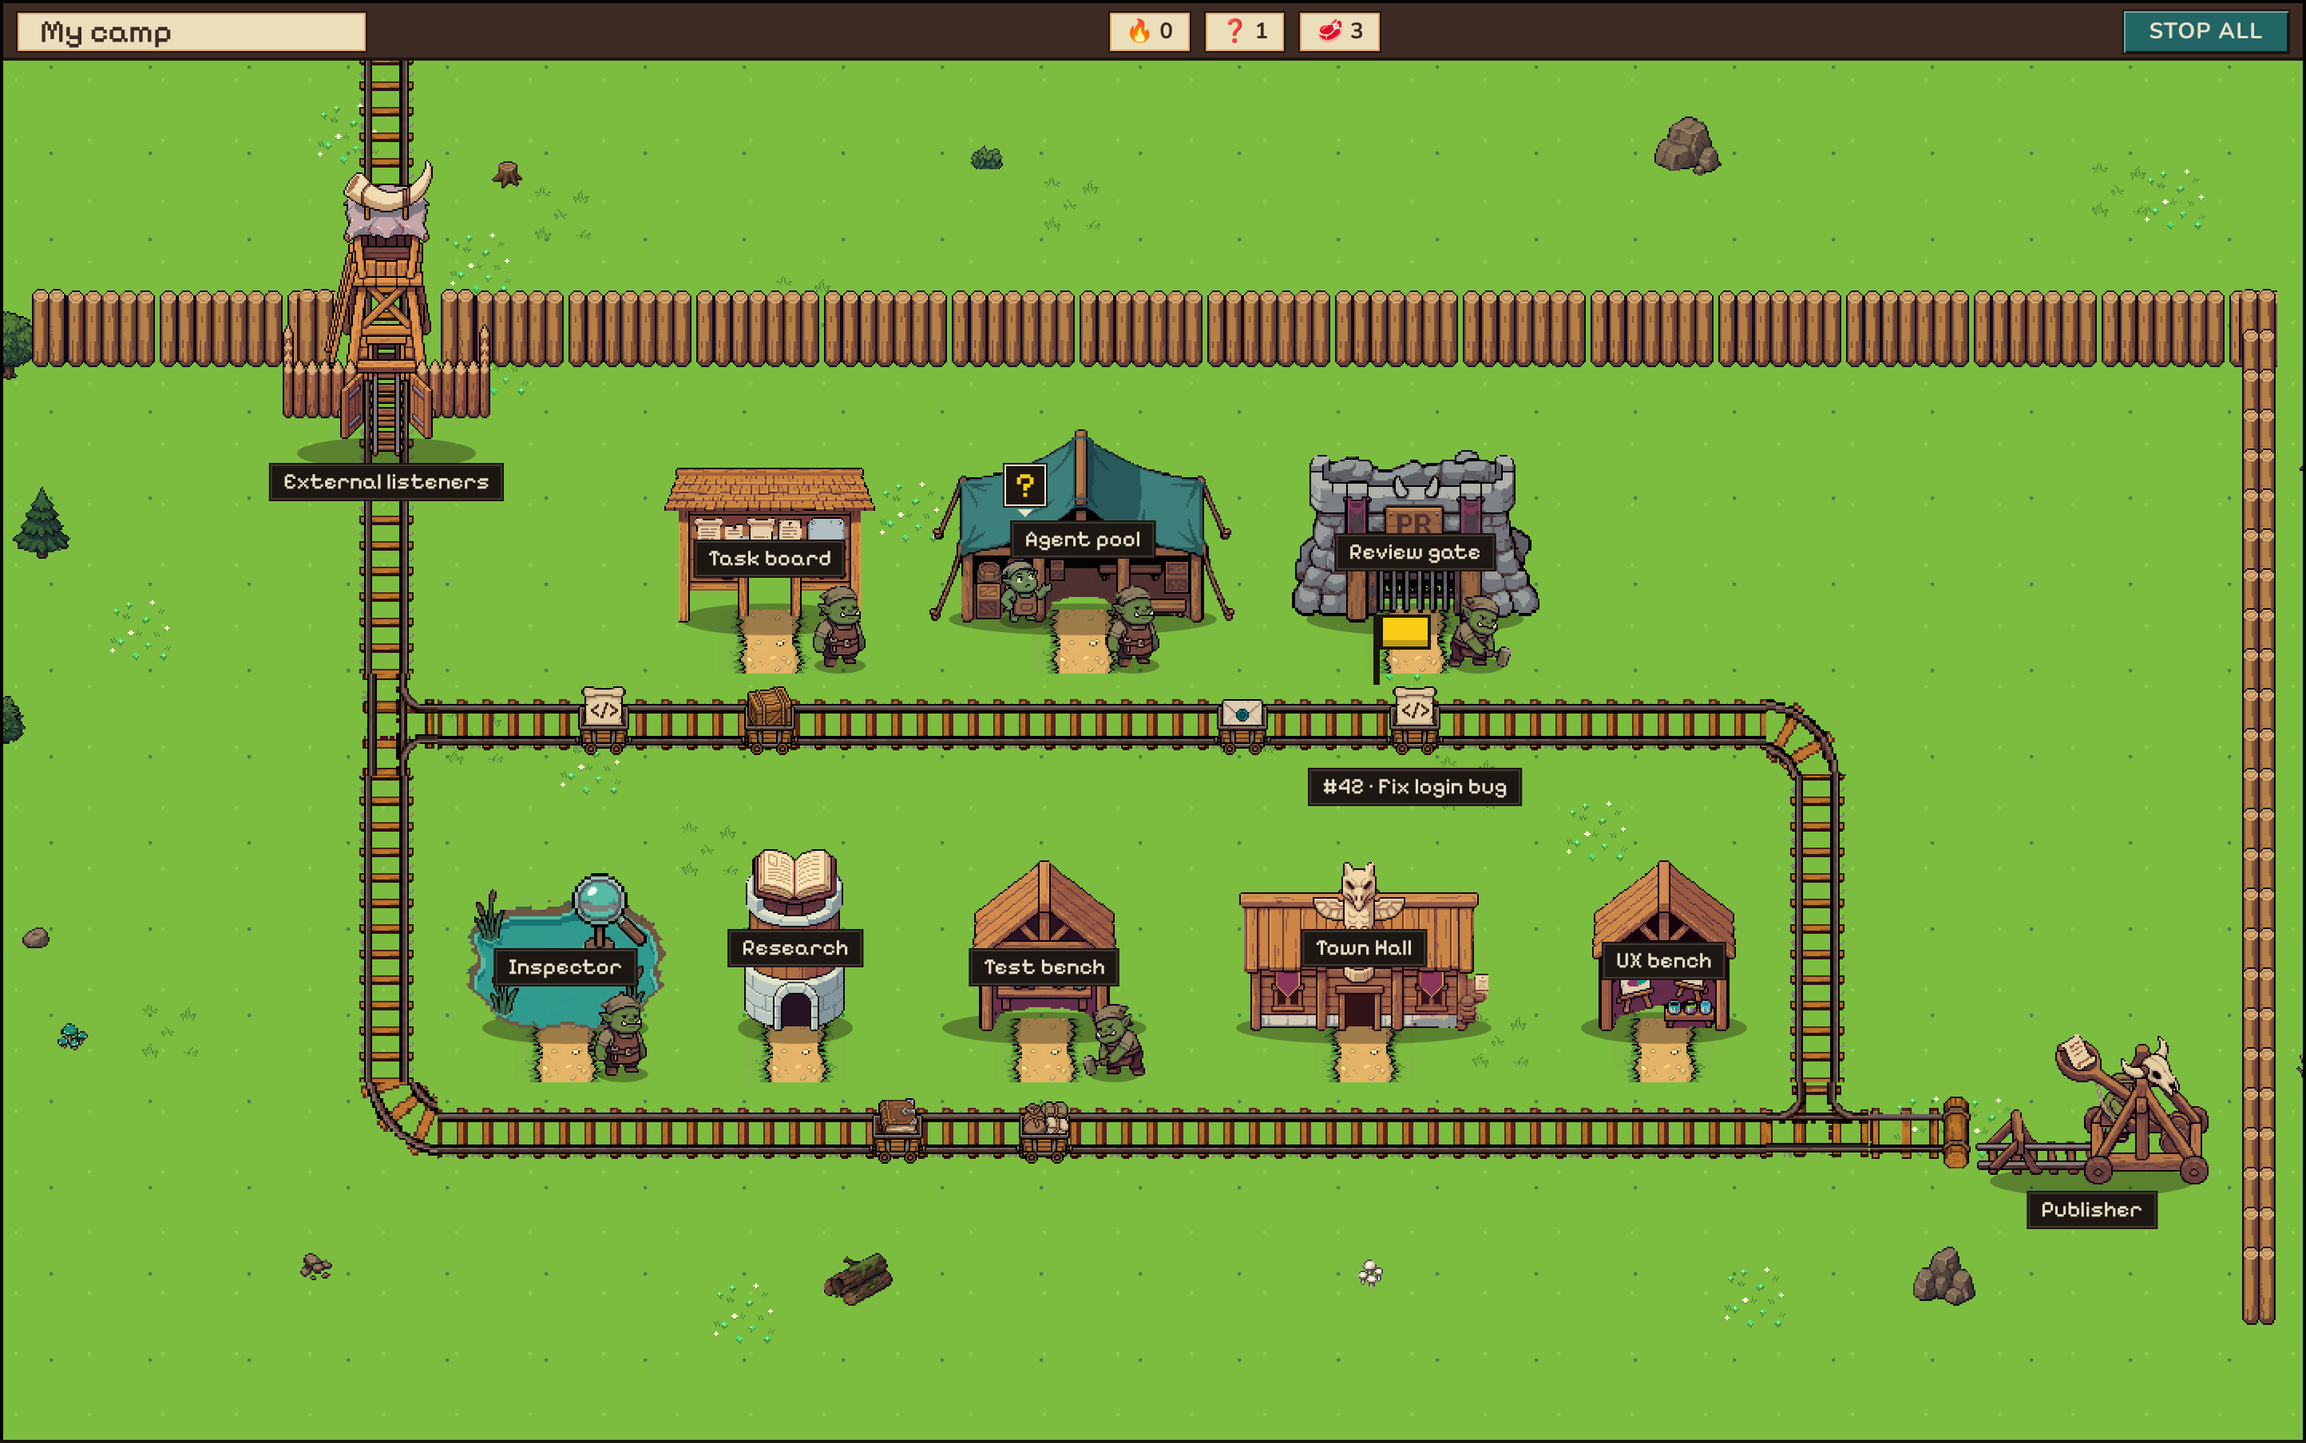
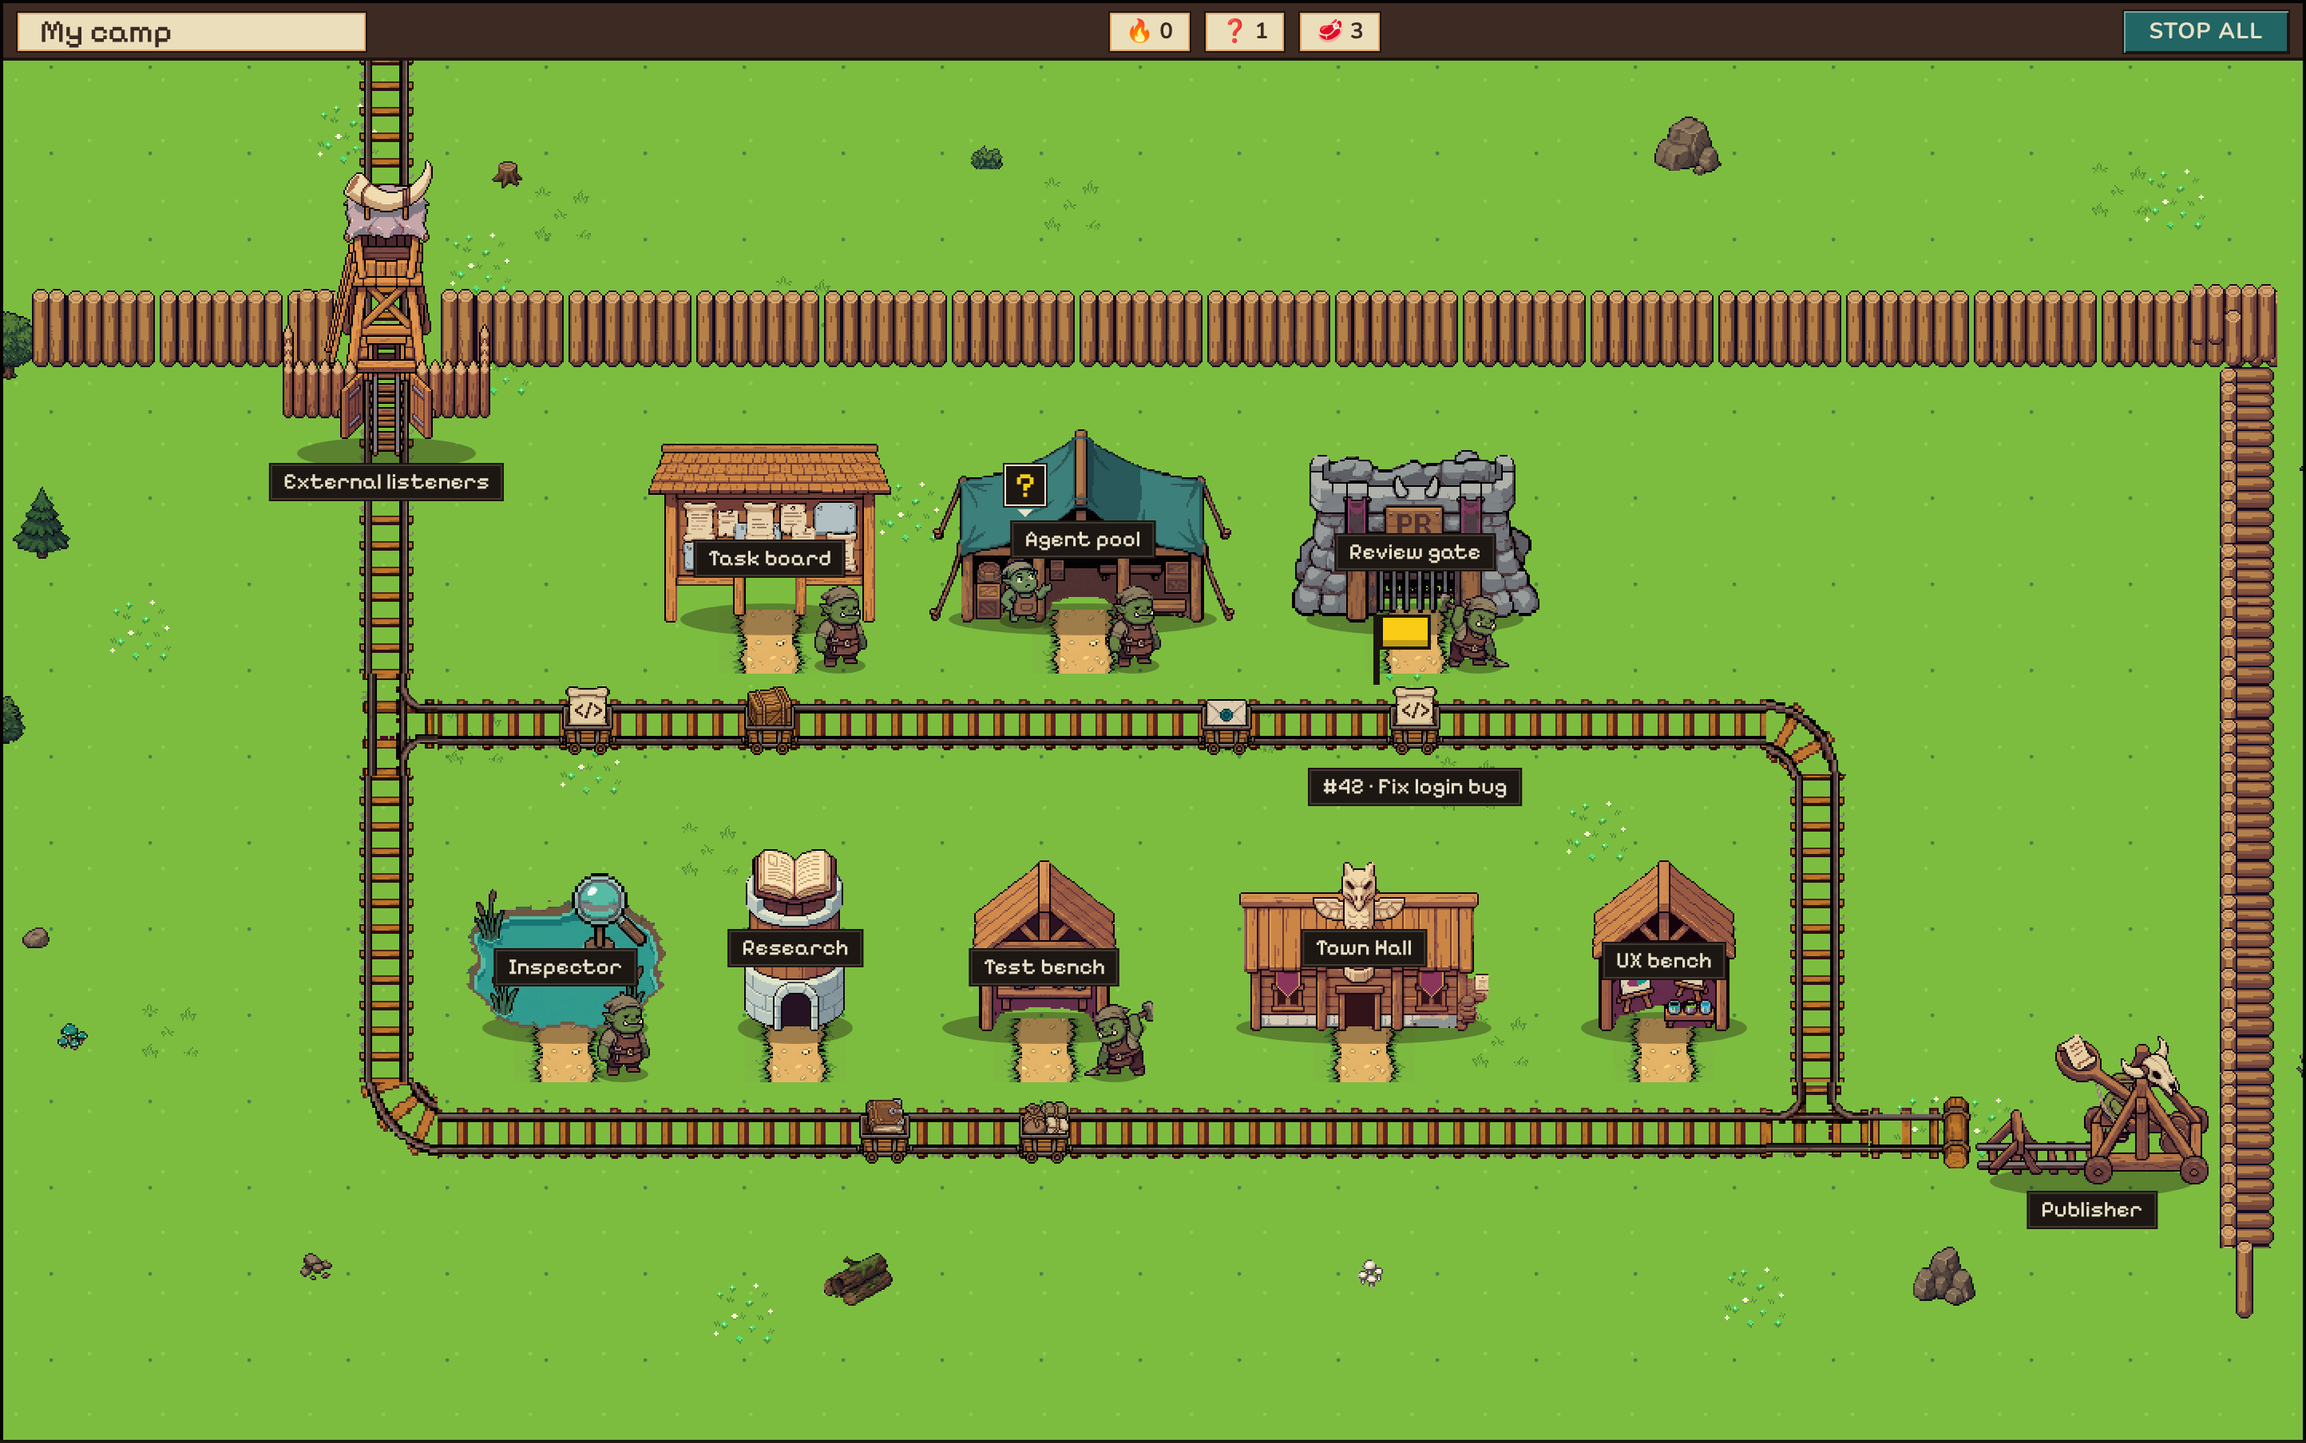
Design v3: the right palisade wall from g3-sides; c2-more's t-e and corner-nw looked at, not placed
- tools/campkit_v3.html: the back wall ends in palisade-corner-ne, palisade-v runs down the right edge (stacked so its
  copies meet), palisade-post at its foot; the end-post column stays the stand-in until g3-sides is cut
- c2-more's t-e breaks the line at the split (straight off the column, branch short of the edge): the turned north T stays
- design-system-v3.md round 8, the sides; v3-town-overview.png re-shot

Claude-Session: https://claude.ai/code/session_01YE3zJS5M9rAcnc7m1feymS

diff --git a/design-system/previews/CampKitV3.html b/design-system/previews/CampKitV3.html
@@ -492,8 +492,9 @@ async function track() {
   };
   // a line of track per row, joined in a loop (v3-prompts §11): the way in comes down from outside the wall at the
   // tower's foot and splits on the left into line 1 (the upper row) and line 2 (the lower row); they merge on the right
-  // and line 2 runs on to the catapult's buffer stop. c2 has no junction with exits north, east and south yet: its
-  // north T turned a quarter clockwise stands in for it (a flat track from above reads the same turned).
+  // and line 2 runs on to the catapult's buffer stop. c2-more's junction with exits north, east and south (t-e,
+  // round 8) does not fit the line yet — its straight sits off the column and its branch stops short of the tile's
+  // edge — so c2's north T turned a quarter clockwise still stands in (a flat track from above reads the same turned).
   for (let y = LINE_Y - Math.ceil((LINE_Y + OY) / T) * T; y < LINE_Y; y += T) await tile("straight-v", COL_L, y, true);
   await tile("t-n", COL_L, LINE_Y, false, 90);                     // the split: in from the north, out east and south
   for (let y = LINE_Y + T; y < LINE2_Y; y += T) await tile("straight-v", COL_L, y, true);
@@ -572,11 +573,13 @@ async function decor() {
 // a run of g3's rounded logs from x0 to x1 (units), its foot on the wall's line; an end post at each end
 let EDGE = null;
 async function loadEdge() {
-  const names = ["palisade-h", "palisade-end-w", "palisade-end-e"];
+  const names = ["palisade-h", "palisade-end-w", "palisade-end-e"], side = ["palisade-v", "palisade-corner-ne", "palisade-post"];
   const got = await Promise.all(names.map((n) => probe(`${V3}edge/${n}.png`)));
   EDGE = got.every(Boolean) ? Object.fromEntries(names.map((n, i) => [n, got[i]])) : null;
+  const more = await Promise.all(side.map((n) => probe(`${V3}edge/${n}.png`)));     // g3-sides: the right wall and its corner
+  if (EDGE && more.every(Boolean)) side.forEach((n, i) => { EDGE[n] = more[i]; here.add(`edge/${n}.png`); });
 }
-function palisade(x0, x1, y) {
+function palisade(x0, x1, y, corner = false) {
   if (!EDGE) return el("v3-at v3-palisade", x0, y, x1 - x0, 32);
   const s = sc("edge/palisade-h.png"), h = EDGE["palisade-h"].naturalHeight * s, foot = (y + 32) * K;
   const run = document.createElement("div");
@@ -584,18 +587,40 @@ function palisade(x0, x1, y) {
   run.style.cssText = `left:${x0 * K}px;top:${foot - h}px;width:${(x1 - x0) * K}px;height:${h}px;`
     + `background:url(${EDGE["palisade-h"].src}) 0 0 / ${EDGE["palisade-h"].naturalWidth * s}px ${h}px repeat-x`;
   world.appendChild(run);
-  for (const [n, x] of [["palisade-end-w", x0 * K], ["palisade-end-e", x1 * K - EDGE["palisade-end-e"].naturalWidth * s]]) {
+  const east = corner && EDGE["palisade-corner-ne"] ? "palisade-corner-ne" : "palisade-end-e";
+  for (const [n, x] of [["palisade-end-w", x0 * K], [east, x1 * K - EDGE[east].naturalWidth * sc(`edge/${east}.png`)]]) {
     const im = document.createElement("img"), e = EDGE[n];
     im.className = "v3-img"; im.src = e.src;
-    im.style.cssText = `left:${x}px;top:${foot - e.naturalHeight * s}px;width:${e.naturalWidth * s}px;height:${e.naturalHeight * s}px`;
+    const es = sc(`edge/${n}.png`);
+    im.style.cssText = `left:${x}px;top:${foot - e.naturalHeight * es}px;width:${e.naturalWidth * es}px;height:${e.naturalHeight * es}px`;
     world.appendChild(im);
   }
 }
 
-// the side wall: g3 drew no corner or side pieces (front-on, a wall going away is not seen), so — a stand-in — the
-// end posts stand in a column down the right edge, the back wall's own end post the corner where the two runs meet
+// the side wall: g3-sides' column of log tops running down from the back wall's north-east corner, a post at its foot.
+// Before g3-sides is cut — a stand-in — the end posts stand in a column down the right edge.
 function palisadeDown(x, y0, y1) {
   if (!EDGE) return el("v3-at v3-palisade is-v", x, y0 + 32, 16, y1 - y0 - 32);
+  if (EDGE["palisade-v"]) {
+    const v = EDGE["palisade-v"], s = sc("edge/palisade-v.png"), w = v.naturalWidth * s, vh = v.naturalHeight * s;
+    const right = (x + 16) * K, top = (y0 + 32) * K, p = EDGE["palisade-post"], ps = sc("edge/palisade-post.png");
+    const ph = p.naturalHeight * ps, bottom = y1 * K - ph;
+    // stacked, not tiled: the column has 7 empty rows above its first log and a 3-row tail below its last, so the
+    // copies stand 110 art px apart and each one's tail tucks under the next one's first log
+    const step = (v.naturalHeight - 10) * s;
+    for (let y = top - 7 * s; y < bottom; y += step) {
+      const c = document.createElement("img");
+      c.className = "v3-img"; c.src = v.src;
+      c.style.cssText = `left:${right - w}px;top:${y}px;width:${w}px;height:${Math.min(vh, bottom - y)}px;`
+        + `object-fit:cover;object-position:top`;
+      world.appendChild(c);
+    }
+    const im = document.createElement("img");
+    im.className = "v3-img"; im.src = p.src;
+    im.style.cssText = `left:${right - (w + p.naturalWidth * ps) / 2}px;top:${bottom - 12 * ps}px;width:${p.naturalWidth * ps}px;height:${ph}px`;
+    world.appendChild(im);
+    return;
+  }
   const e = EDGE["palisade-end-w"], s = sc("edge/palisade-end-w.png"), w = e.naturalWidth * s, h = e.naturalHeight * s;
   const step = Math.round(h * 0.45);
   for (let y = (y0 + 32) * K - h + step; y <= y1 * K - h; y += step) {
@@ -616,7 +641,7 @@ function paths() {
   // the low palisade: along the top (a gap where the track comes in at the tower's foot) and down the right side
   // the low palisade (g3): along the back, open where the track comes in under the lookout, and down the right side
   palisade(OX - 40, COL_L, 0);
-  palisade(COL_L + TU, WALL_X + 16, 0);
+  palisade(COL_L + TU, WALL_X + 16, 0, true);
   palisadeDown(WALL_X, 0, LINE2_Y + 80);
 }
 

diff --git a/tools/campkit_v3.html b/tools/campkit_v3.html
@@ -295,8 +295,9 @@ async function track() {
   };
   // a line of track per row, joined in a loop (v3-prompts §11): the way in comes down from outside the wall at the
   // tower's foot and splits on the left into line 1 (the upper row) and line 2 (the lower row); they merge on the right
-  // and line 2 runs on to the catapult's buffer stop. c2 has no junction with exits north, east and south yet: its
-  // north T turned a quarter clockwise stands in for it (a flat track from above reads the same turned).
+  // and line 2 runs on to the catapult's buffer stop. c2-more's junction with exits north, east and south (t-e,
+  // round 8) does not fit the line yet — its straight sits off the column and its branch stops short of the tile's
+  // edge — so c2's north T turned a quarter clockwise still stands in (a flat track from above reads the same turned).
   for (let y = LINE_Y - Math.ceil((LINE_Y + OY) / T) * T; y < LINE_Y; y += T) await tile("straight-v", COL_L, y, true);
   await tile("t-n", COL_L, LINE_Y, false, 90);                     // the split: in from the north, out east and south
   for (let y = LINE_Y + T; y < LINE2_Y; y += T) await tile("straight-v", COL_L, y, true);
@@ -375,11 +376,13 @@ async function decor() {
 // a run of g3's rounded logs from x0 to x1 (units), its foot on the wall's line; an end post at each end
 let EDGE = null;
 async function loadEdge() {
-  const names = ["palisade-h", "palisade-end-w", "palisade-end-e"];
+  const names = ["palisade-h", "palisade-end-w", "palisade-end-e"], side = ["palisade-v", "palisade-corner-ne", "palisade-post"];
   const got = await Promise.all(names.map((n) => probe(`${V3}edge/${n}.png`)));
   EDGE = got.every(Boolean) ? Object.fromEntries(names.map((n, i) => [n, got[i]])) : null;
+  const more = await Promise.all(side.map((n) => probe(`${V3}edge/${n}.png`)));     // g3-sides: the right wall and its corner
+  if (EDGE && more.every(Boolean)) side.forEach((n, i) => { EDGE[n] = more[i]; here.add(`edge/${n}.png`); });
 }
-function palisade(x0, x1, y) {
+function palisade(x0, x1, y, corner = false) {
   if (!EDGE) return el("v3-at v3-palisade", x0, y, x1 - x0, 32);
   const s = sc("edge/palisade-h.png"), h = EDGE["palisade-h"].naturalHeight * s, foot = (y + 32) * K;
   const run = document.createElement("div");
@@ -387,18 +390,40 @@ function palisade(x0, x1, y) {
   run.style.cssText = `left:${x0 * K}px;top:${foot - h}px;width:${(x1 - x0) * K}px;height:${h}px;`
     + `background:url(${EDGE["palisade-h"].src}) 0 0 / ${EDGE["palisade-h"].naturalWidth * s}px ${h}px repeat-x`;
   world.appendChild(run);
-  for (const [n, x] of [["palisade-end-w", x0 * K], ["palisade-end-e", x1 * K - EDGE["palisade-end-e"].naturalWidth * s]]) {
+  const east = corner && EDGE["palisade-corner-ne"] ? "palisade-corner-ne" : "palisade-end-e";
+  for (const [n, x] of [["palisade-end-w", x0 * K], [east, x1 * K - EDGE[east].naturalWidth * sc(`edge/${east}.png`)]]) {
     const im = document.createElement("img"), e = EDGE[n];
     im.className = "v3-img"; im.src = e.src;
-    im.style.cssText = `left:${x}px;top:${foot - e.naturalHeight * s}px;width:${e.naturalWidth * s}px;height:${e.naturalHeight * s}px`;
+    const es = sc(`edge/${n}.png`);
+    im.style.cssText = `left:${x}px;top:${foot - e.naturalHeight * es}px;width:${e.naturalWidth * es}px;height:${e.naturalHeight * es}px`;
     world.appendChild(im);
   }
 }
 
-// the side wall: g3 drew no corner or side pieces (front-on, a wall going away is not seen), so — a stand-in — the
-// end posts stand in a column down the right edge, the back wall's own end post the corner where the two runs meet
+// the side wall: g3-sides' column of log tops running down from the back wall's north-east corner, a post at its foot.
+// Before g3-sides is cut — a stand-in — the end posts stand in a column down the right edge.
 function palisadeDown(x, y0, y1) {
   if (!EDGE) return el("v3-at v3-palisade is-v", x, y0 + 32, 16, y1 - y0 - 32);
+  if (EDGE["palisade-v"]) {
+    const v = EDGE["palisade-v"], s = sc("edge/palisade-v.png"), w = v.naturalWidth * s, vh = v.naturalHeight * s;
+    const right = (x + 16) * K, top = (y0 + 32) * K, p = EDGE["palisade-post"], ps = sc("edge/palisade-post.png");
+    const ph = p.naturalHeight * ps, bottom = y1 * K - ph;
+    // stacked, not tiled: the column has 7 empty rows above its first log and a 3-row tail below its last, so the
+    // copies stand 110 art px apart and each one's tail tucks under the next one's first log
+    const step = (v.naturalHeight - 10) * s;
+    for (let y = top - 7 * s; y < bottom; y += step) {
+      const c = document.createElement("img");
+      c.className = "v3-img"; c.src = v.src;
+      c.style.cssText = `left:${right - w}px;top:${y}px;width:${w}px;height:${Math.min(vh, bottom - y)}px;`
+        + `object-fit:cover;object-position:top`;
+      world.appendChild(c);
+    }
+    const im = document.createElement("img");
+    im.className = "v3-img"; im.src = p.src;
+    im.style.cssText = `left:${right - (w + p.naturalWidth * ps) / 2}px;top:${bottom - 12 * ps}px;width:${p.naturalWidth * ps}px;height:${ph}px`;
+    world.appendChild(im);
+    return;
+  }
   const e = EDGE["palisade-end-w"], s = sc("edge/palisade-end-w.png"), w = e.naturalWidth * s, h = e.naturalHeight * s;
   const step = Math.round(h * 0.45);
   for (let y = (y0 + 32) * K - h + step; y <= y1 * K - h; y += step) {
@@ -419,7 +444,7 @@ function paths() {
   // the low palisade: along the top (a gap where the track comes in at the tower's foot) and down the right side
   // the low palisade (g3): along the back, open where the track comes in under the lookout, and down the right side
   palisade(OX - 40, COL_L, 0);
-  palisade(COL_L + TU, WALL_X + 16, 0);
+  palisade(COL_L + TU, WALL_X + 16, 0, true);
   palisadeDown(WALL_X, 0, LINE2_Y + 80);
 }
 

diff --git a/docs/design/design-system-v3.md b/docs/design/design-system-v3.md
@@ -184,8 +184,16 @@ south-east curve and a larger one, a south-west, a north-east, a switch, a cross
 `tile_from` (its rails 41 art px apart against the set's 32 → ×0.78, the 64-px tile) and its three curves replace c2's;
 they join the straights. It has **no north-west curve and no junction north–east–south**, so the loop's split stays the
 stand-in (c2's north T turned a quarter). **g3** drew no corners or side pieces (front-on, a wall going away is not
-seen): the back wall is its straight run with end posts; down the right edge — a stand-in — its end posts stand in a
-column, meeting the back wall at its end post.
+seen): the back wall is its straight run with end posts.
+
+**Round 8, the sides:** **g3-sides #1** gives the right wall: the back run ends in `palisade-corner-ne` (one log dropping
+where the wall turns), `palisade-v` (a column of log tops, 40 × 120) runs down the right edge, stacked 110 art px apart
+so its 7 empty rows above and 3-row tail below tuck under the next copy, and `palisade-post` stands at its foot. The
+other corners (nw, sw, se) are cut for a wall that closes the camp; the preview's camp is open at the front and on
+the left. **c2-more #1** gives `track/corner-nw` and `track/t-e`, fitted with `tile_from` at ×0.727 (rails 44 art px
+apart against 32); neither is placed yet. t-e's straight sits off the tile's middle column and its branch stops short
+of the east edge, so at the split it breaks the line and the turned north T stays. corner-nw is clipped at the top,
+and the loop has no north-west turn to use it. Both need a redraw at the set's gauge (v3-prompts §11).
 
 **The ork is the capped ork of 0.3** (v3-prompts §12; o1/o2's bald ork is `retired`, its sprites gone with it, the
 door frames and the prospector among them). Cut the v3 way from the 0.3 sheets: walking down, up and to the side (6
